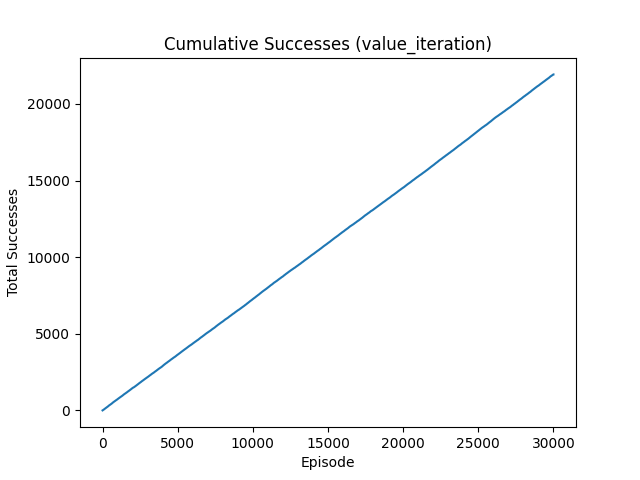
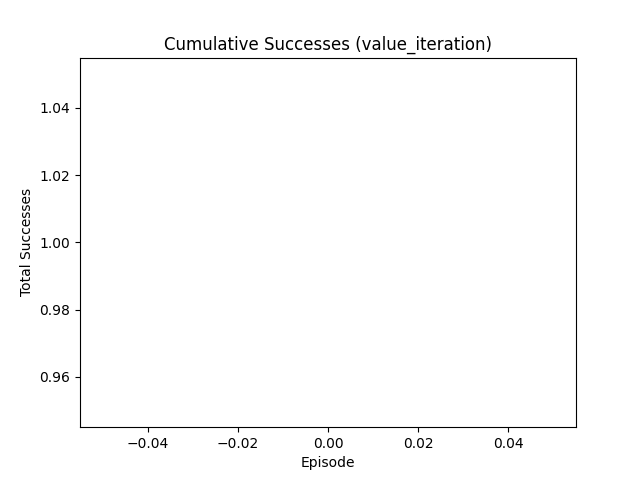
added back is_training

diff --git a/Frozen_Lake.py b/Frozen_Lake.py
@@ -18,7 +18,6 @@ def value_iteration(env, gamma=0.9, tol=1e-6):
     while True:
         delta = 0
         for s in range(nS):
-            # compute expected returns for all actions using base env.P
             action_values = [
                 sum(p * (r + gamma * V[s_next]) for p, s_next, r, _ in env.P[s][a])
                 for a in range(nA)
@@ -39,42 +38,59 @@ def value_iteration(env, gamma=0.9, tol=1e-6):
         policy[s] = int(np.argmax(q_sa))
     return V, policy, iteration
 
-# Unified run interface
-
-def run(episodes, algorithm='q_learning', render=False, slippery=False, seed=22):
+# Unified run interface with is_training flag
+def run(
+    episodes,
+    algorithm='q_learning',
+    is_training=True,
+    render=False,
+    slippery=False,
+    seed=22
+):
     """
-    Unified interface for Q-Learning or Value Iteration on FrozenLake-v1.
-
-    episodes: number of episodes to train (Q-learning) or to evaluate (VI).
-    algorithm: 'q_learning' or 'value_iteration'.
-    render: whether to render environment during evaluation.
-    slippery: environment slipperiness.
-    seed: random seed for reproducibility.
+    episodes: 
+      - for Q-Learning: number of training episodes (if is_training=True) 
+                       or evaluation episodes (if is_training=False)
+      - for VI:        number of evaluation episodes (if is_training=False); 
+                       ignored if is_training=True
+    algorithm: 'q_learning' or 'value_iteration'
+    is_training: whether to train (True) or load+evaluate (False)
+    render:      render during evaluation
+    slippery:    whether the lake is slippery
+    seed:        RNG seed
     """
-    # Create environment
+    # --- setup ---
     env = gym.make(
-        'FrozenLake-v1', map_name="4x4", is_slippery=slippery,
-        render_mode="human" if render else None
+        'FrozenLake-v1',
+        map_name="4x4",
+        is_slippery=slippery,
+        render_mode="human" if render and not is_training else None
     )
-    # Unwrap to access transition model
     base_env = env.unwrapped
-
-    # Set seeds
     env.reset(seed=seed)
     env.action_space.seed(seed)
     env.observation_space.seed(seed)
     rng = np.random.default_rng(seed)
 
-    # File names based on algorithm and slipperiness
     prefix = 'slippery' if slippery else 'non_slippery'
+    q_file = f"q_{prefix}.pkl"
+    vi_file = f"V_{prefix}.pkl"
 
-    # Initialize structures
+    # --- initialize or load models ---
     if algorithm == 'q_learning':
-        q = np.zeros((env.observation_space.n, env.action_space.n))
-    else:
-        V, policy, iters = value_iteration(base_env)
+        if is_training:
+            q = np.zeros((env.observation_space.n, env.action_space.n))
+        else:
+            with open(q_file, 'rb') as f:
+                q = pickle.load(f)
+    else:  # value_iteration
+        if is_training:
+            V, policy, iters = value_iteration(base_env)
+        else:
+            with open(vi_file, 'rb') as f:
+                V, policy = pickle.load(f)
 
-    # Q-learning hyperparameters
+    # Q-learning hyperparams
     alpha = 0.9
     gamma = 0.9
     epsilon = 1.0
@@ -82,55 +98,70 @@ def run(episodes, algorithm='q_learning', render=False, slippery=False, seed=22)
 
     rewards_per_episode = np.zeros(episodes)
 
-    # Training or evaluation loop
+    # --- train or evaluate ---
     if algorithm == 'q_learning':
-        for i in range(episodes):
-            state, _ = env.reset()
-            done = False
-            while not done:
-                # epsilon-greedy action selection
-                if rng.random() < epsilon:
-                    action = env.action_space.sample()
-                else:
+        if is_training:
+            for i in range(episodes):
+                state, _ = env.reset()
+                done = False
+                while not done:
+                    if rng.random() < epsilon:
+                        action = env.action_space.sample()
+                    else:
+                        action = int(np.argmax(q[state]))
+                    new_state, reward, terminated, truncated, _ = env.step(action)
+                    done = terminated or truncated
+                    q[state, action] += alpha * (
+                        reward + gamma * np.max(q[new_state]) - q[state, action]
+                    )
+                    state = new_state
+                epsilon = max(epsilon - epsilon_decay, 0)
+                if reward == 1:
+                    rewards_per_episode[i] = 1
+
+            # save and report convergence
+            with open(q_file, 'wb') as f:
+                pickle.dump(q, f)
+            conv_ep = check_convergence(rewards_per_episode)
+            print(f"Q-Learning converged at episode {conv_ep}")
+        else:
+            # evaluation
+            for i in range(episodes):
+                state, _ = env.reset()
+                done = False
+                while not done:
                     action = int(np.argmax(q[state]))
-                new_state, reward, terminated, truncated, _ = env.step(action)
-                done = terminated or truncated
-                # Q-update
-                q[state, action] += alpha * (
-                    reward + gamma * np.max(q[new_state]) - q[state, action]
-                )
-                state = new_state
-            epsilon = max(epsilon - epsilon_decay, 0)
-            if reward == 1:
-                rewards_per_episode[i] = 1
-        # Save Q-table
-        with open(f"q_{prefix}.pkl", "wb") as f:
-            pickle.dump(q, f)
-        # Convergence
-        conv_ep = check_convergence(rewards_per_episode)
-        print(f"Q-Learning converged at episode {conv_ep}")
-    else:
-        # Evaluate VI policy using original env for stepping
-        success = 0
-        for i in range(episodes):
-            state, _ = env.reset()
-            done = False
-            while not done:
-                action = int(policy[state])
-                state, reward, terminated, truncated, _ = env.step(action)
-                done = terminated or truncated
-            if reward == 1:
-                rewards_per_episode[i] = 1
-                success += 1
-        print(f"Value Iteration converged in {iters} iterations")
-        print(f"VI policy success rate: {success/episodes*100:.2f}%")
-        # Save policy and values
-        with open(f"V_{prefix}.pkl", "wb") as f:
-            pickle.dump((V, policy), f)
+                    state, reward, terminated, truncated, _ = env.step(action)
+                    done = terminated or truncated
+                if reward == 1:
+                    rewards_per_episode[i] = 1
+            print(f"Q-Learning success rate: {rewards_per_episode.mean()*100:.2f}%")
+    else:  # value_iteration
+        if is_training:
+            # save VI results
+            with open(vi_file, 'wb') as f:
+                pickle.dump((V, policy), f)
+            print(f"Value Iteration converged in {iters} iterations")
+            env.close()
+            return
+        else:
+            # evaluation
+            success = 0
+            for i in range(episodes):
+                state, _ = env.reset()
+                done = False
+                while not done:
+                    action = int(policy[state])
+                    state, reward, terminated, truncated, _ = env.step(action)
+                    done = terminated or truncated
+                if reward == 1:
+                    rewards_per_episode[i] = 1
+                    success += 1
+            print(f"VI policy success rate: {success/episodes*100:.2f}%")
 
     env.close()
 
-    # Cumulative success plot
+    # --- plotting ---
     cum_success = np.cumsum(rewards_per_episode)
     plt.figure()
     plt.plot(cum_success)
@@ -140,14 +171,14 @@ def run(episodes, algorithm='q_learning', render=False, slippery=False, seed=22)
     plt.savefig(f"cum_success_{algorithm}_{prefix}.png")
     plt.show()
 
-    # For VI, also plot heatmap of state values
-    if algorithm == 'value_iteration':
+    # optional VI heatmap if you evaluated VI
+    if algorithm == 'value_iteration' and not is_training:
         plt.figure()
-        grid_shape = int(np.sqrt(len(V)))
-        V_grid = V.reshape((grid_shape, grid_shape))
+        grid = int(np.sqrt(len(V)))
+        V_grid = V.reshape((grid, grid))
         plt.imshow(V_grid, interpolation='nearest')
-        for i in range(grid_shape):  # annotate values
-            for j in range(grid_shape):
+        for i in range(grid):
+            for j in range(grid):
                 plt.text(j, i, f"{V_grid[i, j]:.2f}", ha='center', va='center')
         plt.title('State-Value Heatmap (V)')
         plt.colorbar()
@@ -156,12 +187,12 @@ def run(episodes, algorithm='q_learning', render=False, slippery=False, seed=22)
 
 
 if __name__ == "__main__":
-    # Example usages:
-    # Q-Learning training:
-    # run(15000, algorithm='q_learning', render=False, slippery=False)
-    # Q-Learning evaluation:
-    # run(1000, algorithm='q_learning', render=False, slippery=False)
+    # Q-Learning train
+    # run(15000, algorithm='q_learning', is_training=True, slippery=False)
+    # Q-Learning eval
+    run(1,  algorithm='q_learning', is_training=False, slippery=False, render=True)
 
-    # Value Iteration evaluation:
-    # run(10000, algorithm='value_iteration', render=False, slippery=False)
-    run(30000, algorithm='value_iteration', render=False, slippery=True)
+    # VI train (just compute & save)
+    # run(None,  algorithm='value_iteration', is_training=True, slippery=True)
+    # VI eval
+    run(1,  algorithm='value_iteration', is_training=False, slippery=True, render=True)
